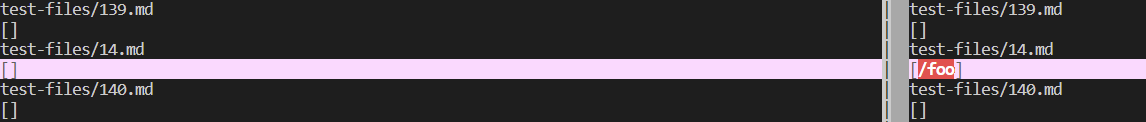
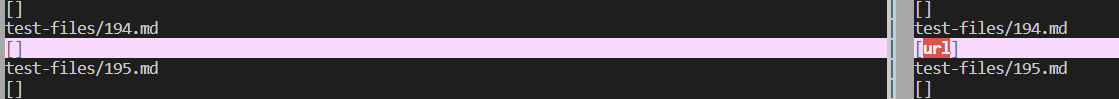
。

Changed region(s): [[0.0, 0.0, 1.0, 1.0]]

diff --git a/Week 10 lab report.md b/Week 10 lab report.md
@@ -1,0 +1,33 @@
+# Test 1
+[Test 194](https://github.com/nidhidhamnani/markdown-parser/blob/main/test-files/194.md?plain=1)
+
+We use `vimdiff` to find the different results.
+![Image](command.png)
+
+Actual output:
+![Image](vim1.png)
+
+Expect output (using [the CommonMark demo site](https://spec.commonmark.org/dingus/)):
+
+Should be `"my_(url)"`
+
+![Image](Output1.png)
+
+
+
+
+
+# Test 2
+Again we use `vimdiff` to find the different results.
+
+[Test 577](https://github.com/nidhidhamnani/markdown-parser/blob/8dd87e6914ae40a4321aac8e2483e349de40b03c/test-files/577.md?plain=1)
+
+Actual output:
+![Image](vim2.png)
+
+Expect output:
+![Image](output1.png)
+
+The problem is that the code can not distinguish between a link
+
+
